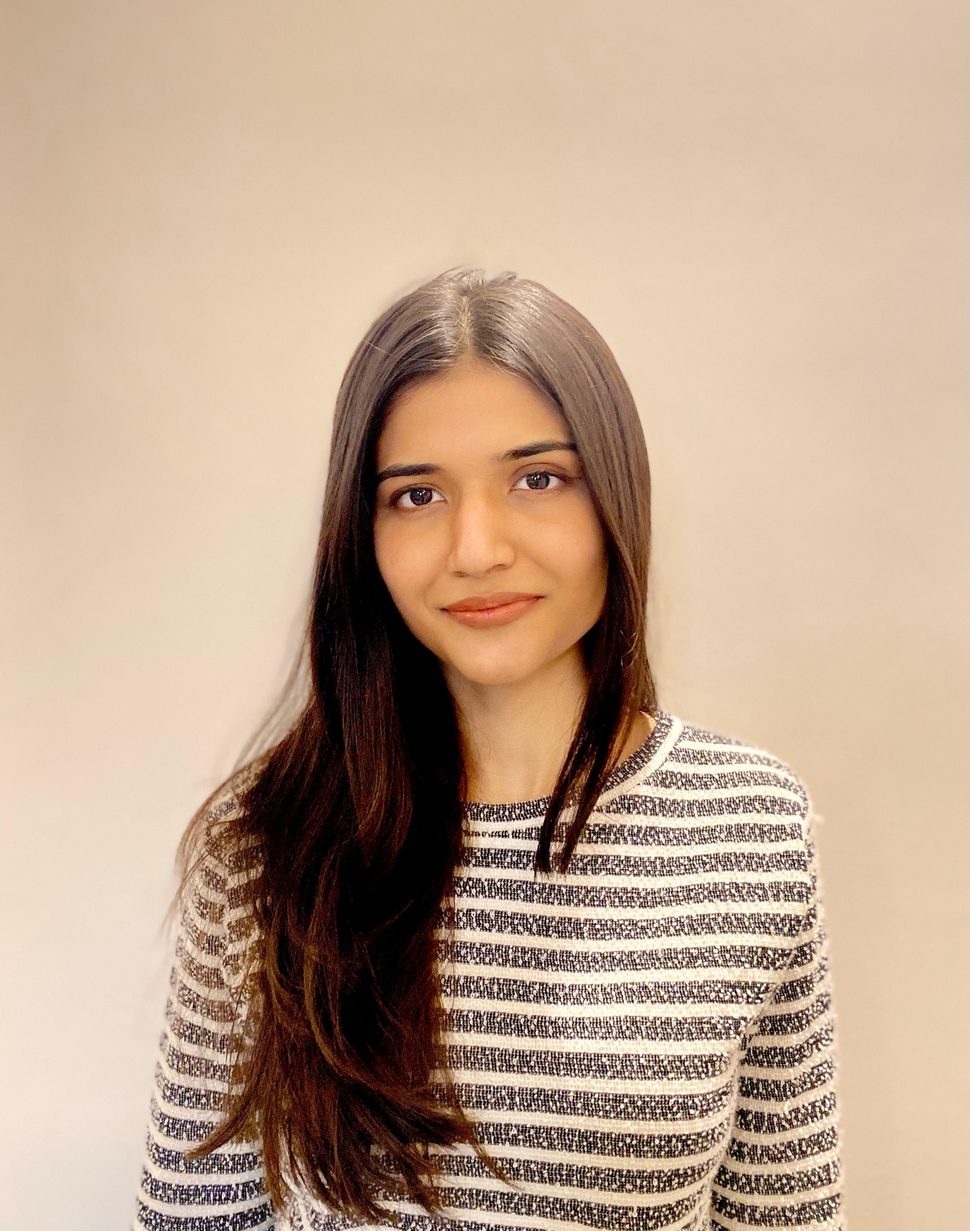
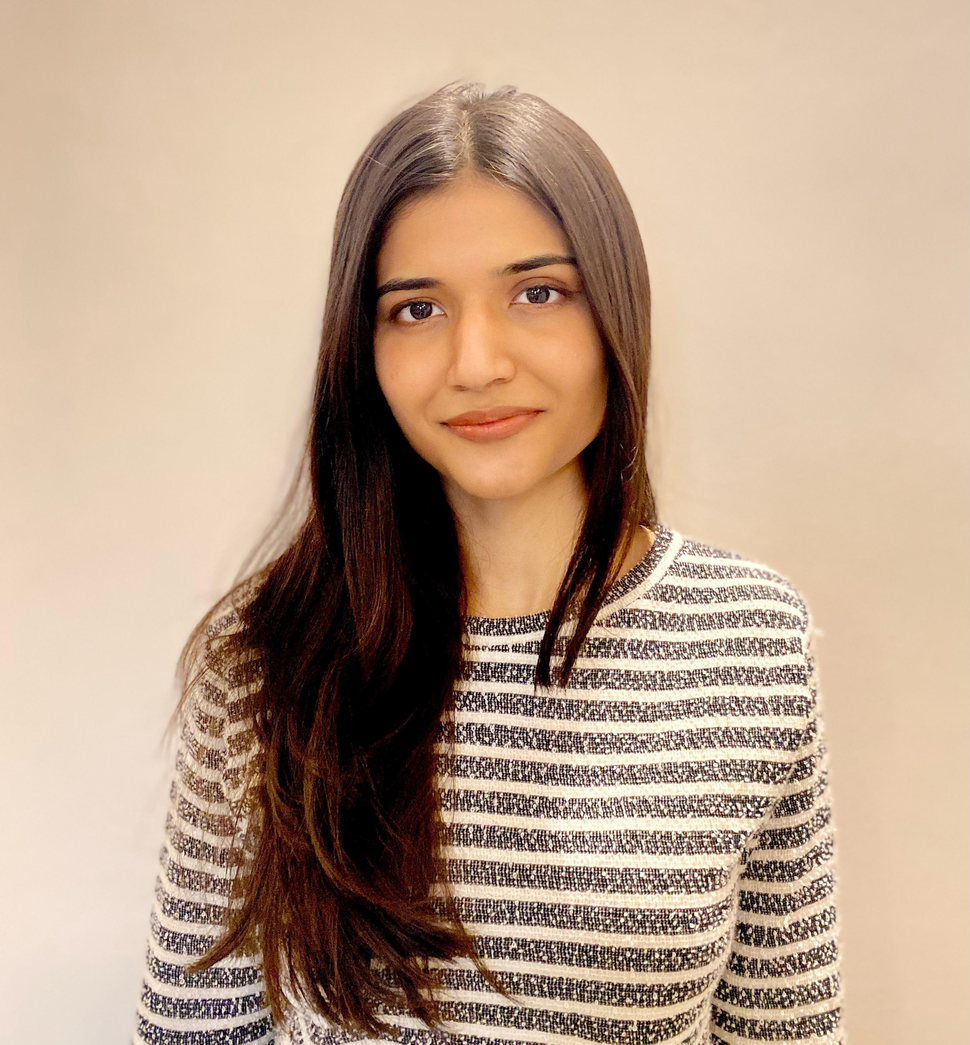
update

diff --git a/index.html b/index.html
@@ -82,7 +82,7 @@
 
         <div class="row"> 
           <div class="col-lg-4">
-            <img src="assets/img/Prof.jpeg" class="img-fluid" alt="" style = "height:500px">
+            <img src="assets/img/Prof.jpeg" class="img-fluid" alt="" style = "height:450px">
           </div>
           <div class="col-lg-8 pt-4 pt-lg-0 content">
             <h3>Web Developer &amp; Programmer.</h3>
